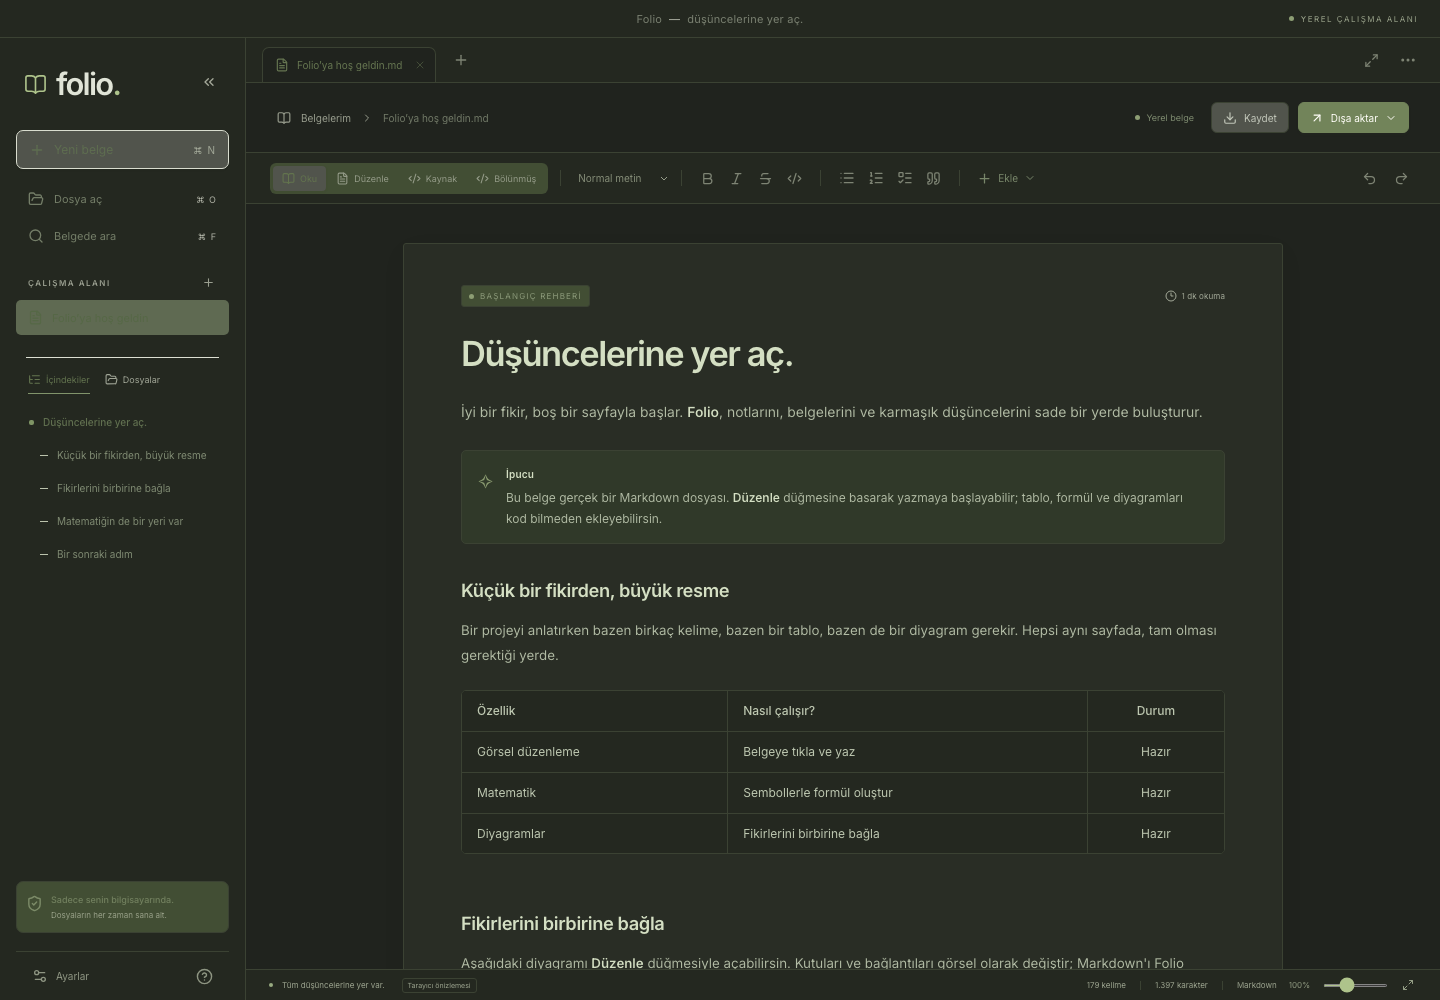
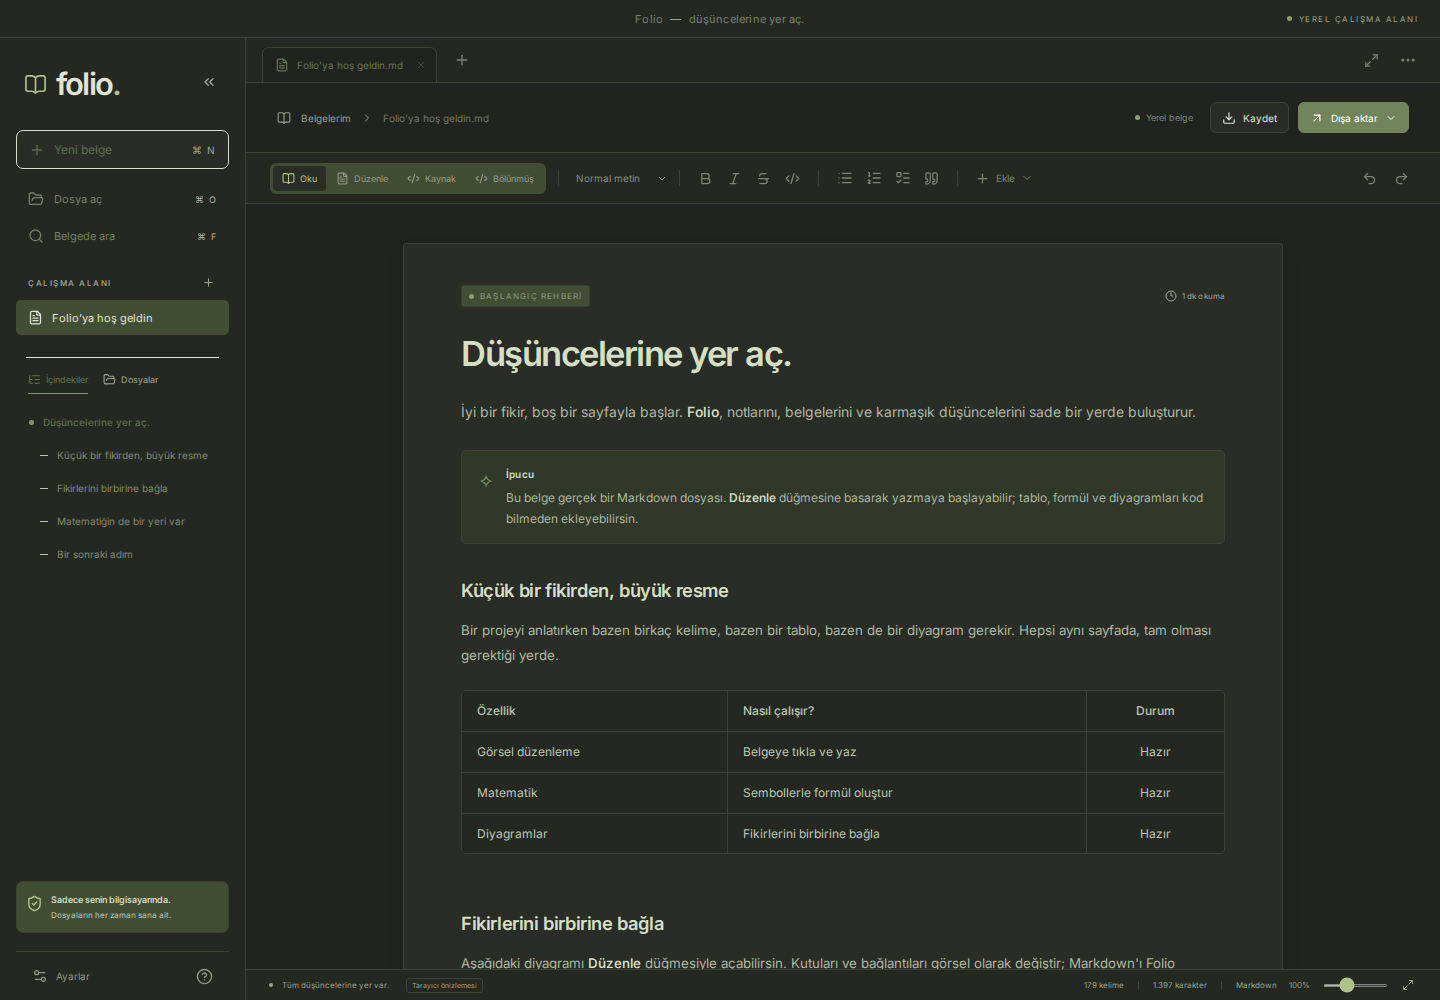
Use a diagonal light and dark hero screenshot with rounded corners in the README

diff --git a/tests/e2e/app.spec.ts b/tests/e2e/app.spec.ts
@@ -112,11 +112,20 @@ test('unsafe HTML never runs and remote images do not load', async ({ page }) =>
 test('captures light and dark desktop layouts', async ({ page }) => {
   await page.goto('/');
   await expect(page.locator('.document-scroll .mermaid-drawing:visible svg')).toBeVisible();
-  await page.screenshot({ path: 'docs/screenshots/folio-light.png', fullPage: true });
+  await page.screenshot({
+    path: 'docs/screenshots/folio-light.png',
+    fullPage: true,
+    animations: 'disabled',
+  });
   await page.getByRole('button', { name: 'Ayarlar', exact: true }).click();
   await page.getByRole('button', { name: 'Koyu', exact: true }).click();
   await page.getByRole('button', { name: 'Tamam', exact: true }).click();
-  await page.screenshot({ path: 'docs/screenshots/folio-dark.png', fullPage: true });
+  await expect(page.getByRole('heading', { name: 'Kendine göre bir alan' })).toBeHidden();
+  await page.screenshot({
+    path: 'docs/screenshots/folio-dark.png',
+    fullPage: true,
+    animations: 'disabled',
+  });
 });
 
 test('switches interface language without translating document content', async ({ page }) => {

diff --git a/README.tr.md b/README.tr.md
@@ -14,7 +14,7 @@
 
 [Özellikler](#özellikler) · [Başlarken](#başlarken) · [Geliştirme](#geliştirme) · [Testler](#testler) · [Paketleme](#paketleme) · [Katkı rehberi](CONTRIBUTING.tr.md)
 
-![Folio masaüstü uygulaması](docs/screenshots/folio-packaged.png)
+![Folio açık ve koyu temada](docs/screenshots/folio-hero.png)
 
 </div>
 

diff --git a/README.md b/README.md
@@ -14,7 +14,7 @@
 
 [Features](#features) · [Getting started](#getting-started) · [Development](#development) · [Testing](#testing) · [Packaging](#packaging) · [Contributing](CONTRIBUTING.md)
 
-![Folio desktop app](docs/screenshots/folio-packaged.png)
+![Folio in light and dark themes](docs/screenshots/folio-hero.png)
 
 </div>
 
